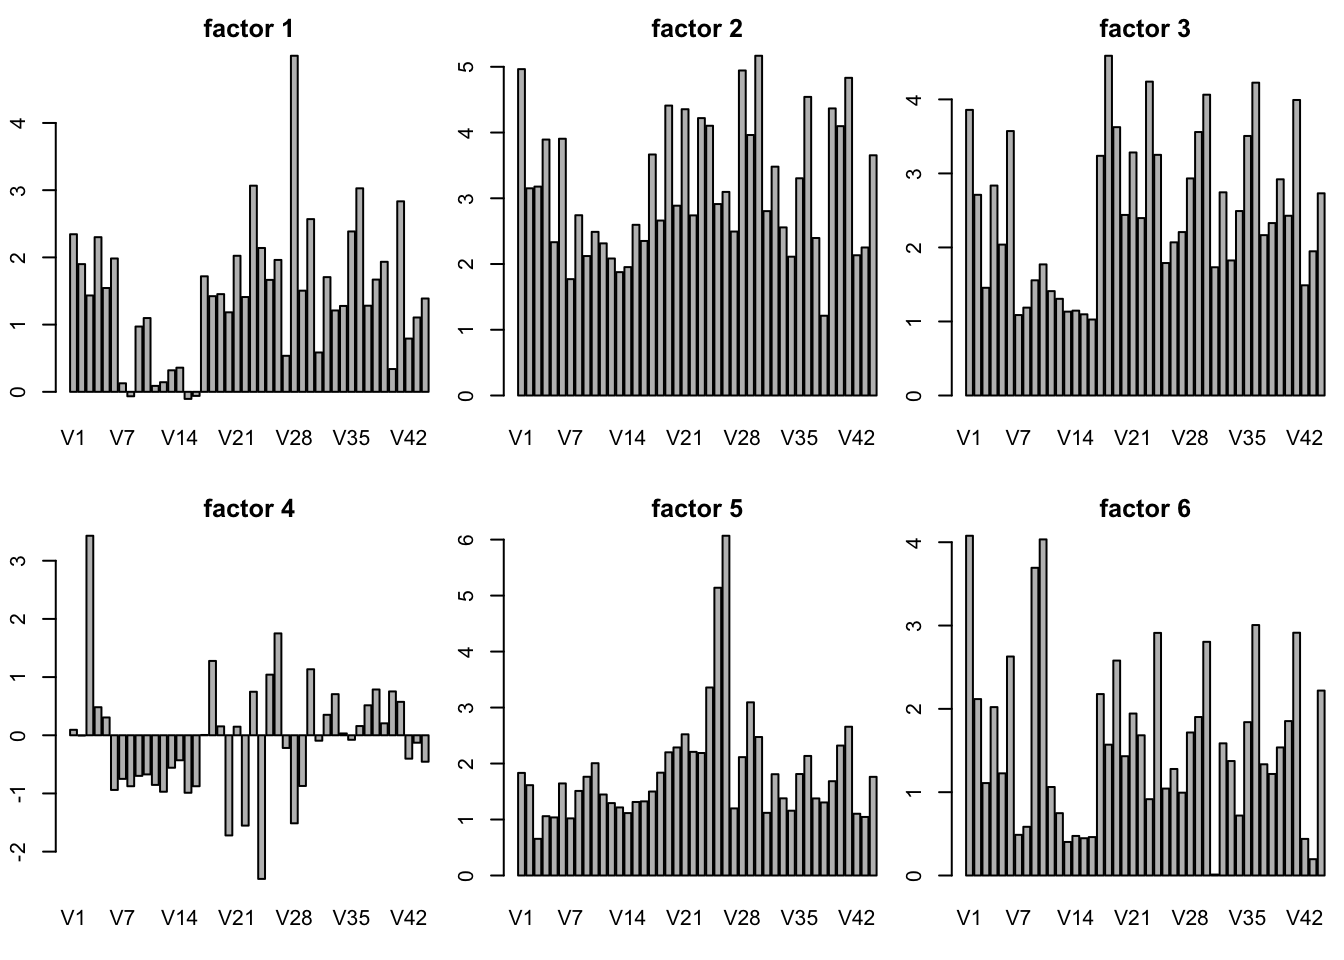
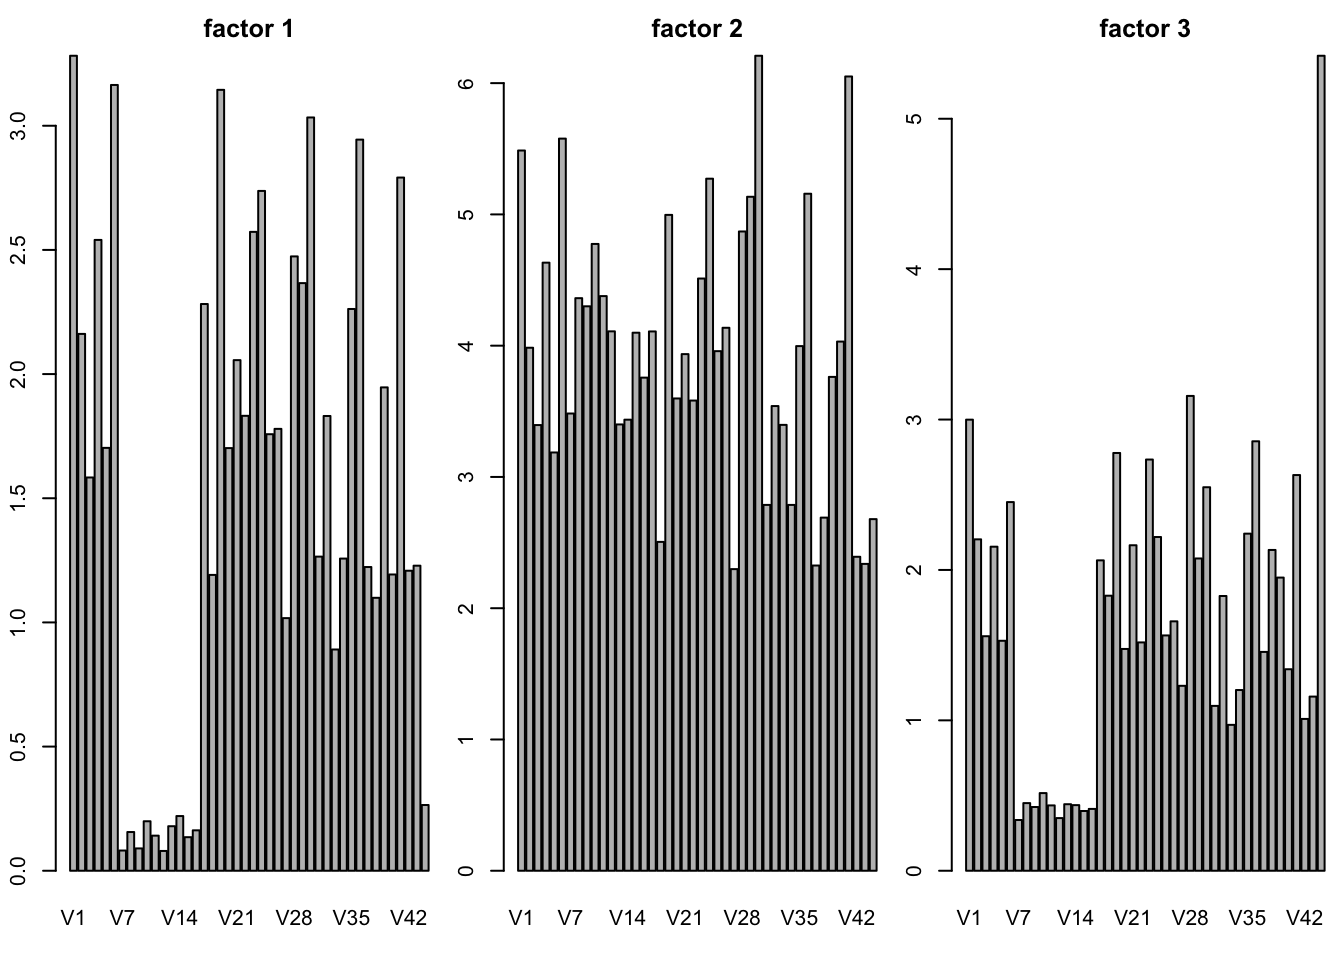
Build site.

diff --git a/docs/GTEXzscoreTemplate.html b/docs/GTEXzscoreTemplate.html
@@ -332,7 +332,7 @@ shared across the workflowr files. -->
 <p><strong>Last updated:</strong> 2017-10-05</p>
 <!-- Insert the code version (Git commit SHA1) if Git repository exists and R
  package git2r is installed -->
-<p><strong>Code version:</strong> 380d9e6</p>
+<p><strong>Code version:</strong> 9def2d8</p>
 <!-- Add your analysis here -->
 <div id="install-the-package" class="section level2">
 <h2>Install the package</h2>
@@ -574,16 +574,6 @@ K = 30
 <p>The approaches make sure we can get <span class="math inline">\((\hat{\sigma}_1^2,\cdots,\hat{\sigma}_j^2,\cdots)\)</span> is a <code>16069</code> vector.</p>
 </div>
 </div>
-<div id="plot-sfa-result" class="section level3">
-<h3>plot SFA result</h3>
-<pre class="r"><code>sfares = readRDS(&quot;../data/GTExdata/SFAres/sfaGTExzscore.rds&quot;)
-# the F is K by N matrix! not N by K matrix
-par(mfrow = c(2,3),mar=c(5.1,4.1,4.1,2.1)-1.9)
-for(k in 1:30){
-  barplot(sfares$F[k,],main = paste(&quot;factor&quot;,k))
-}</code></pre>
-<p><img src="figure/GTEXzscoreTemplate.Rmd/unnamed-chunk-2-1.png" width="672" style="display: block; margin: auto;" /><img src="figure/GTEXzscoreTemplate.Rmd/unnamed-chunk-2-2.png" width="672" style="display: block; margin: auto;" /><img src="figure/GTEXzscoreTemplate.Rmd/unnamed-chunk-2-3.png" width="672" style="display: block; margin: auto;" /><img src="figure/GTEXzscoreTemplate.Rmd/unnamed-chunk-2-4.png" width="672" style="display: block; margin: auto;" /><img src="figure/GTEXzscoreTemplate.Rmd/unnamed-chunk-2-5.png" width="672" style="display: block; margin: auto;" /></p>
-</div>
 <div id="sfa-k3" class="section level3">
 <h3>SFA K=3</h3>
 <pre class="r"><code>g3 = readRDS(&#39;../data/GTExdata/SFAres/sfaK_3.rds&#39;)
@@ -591,7 +581,7 @@ par(mfrow = c(1,3),mar=c(5.1,4.1,4.1,2.1)-1.9)
 for(k in 1:3){
   barplot(g3$F[k,],main = paste(&quot;factor&quot;,k))
 }</code></pre>
-<p><img src="figure/GTEXzscoreTemplate.Rmd/unnamed-chunk-3-1.png" width="672" style="display: block; margin: auto;" /></p>
+<p><img src="figure/GTEXzscoreTemplate.Rmd/unnamed-chunk-2-1.png" width="672" style="display: block; margin: auto;" /></p>
 </div>
 <div id="plot-sfamix-result" class="section level3">
 <h3>plot SFAmix result</h3>
